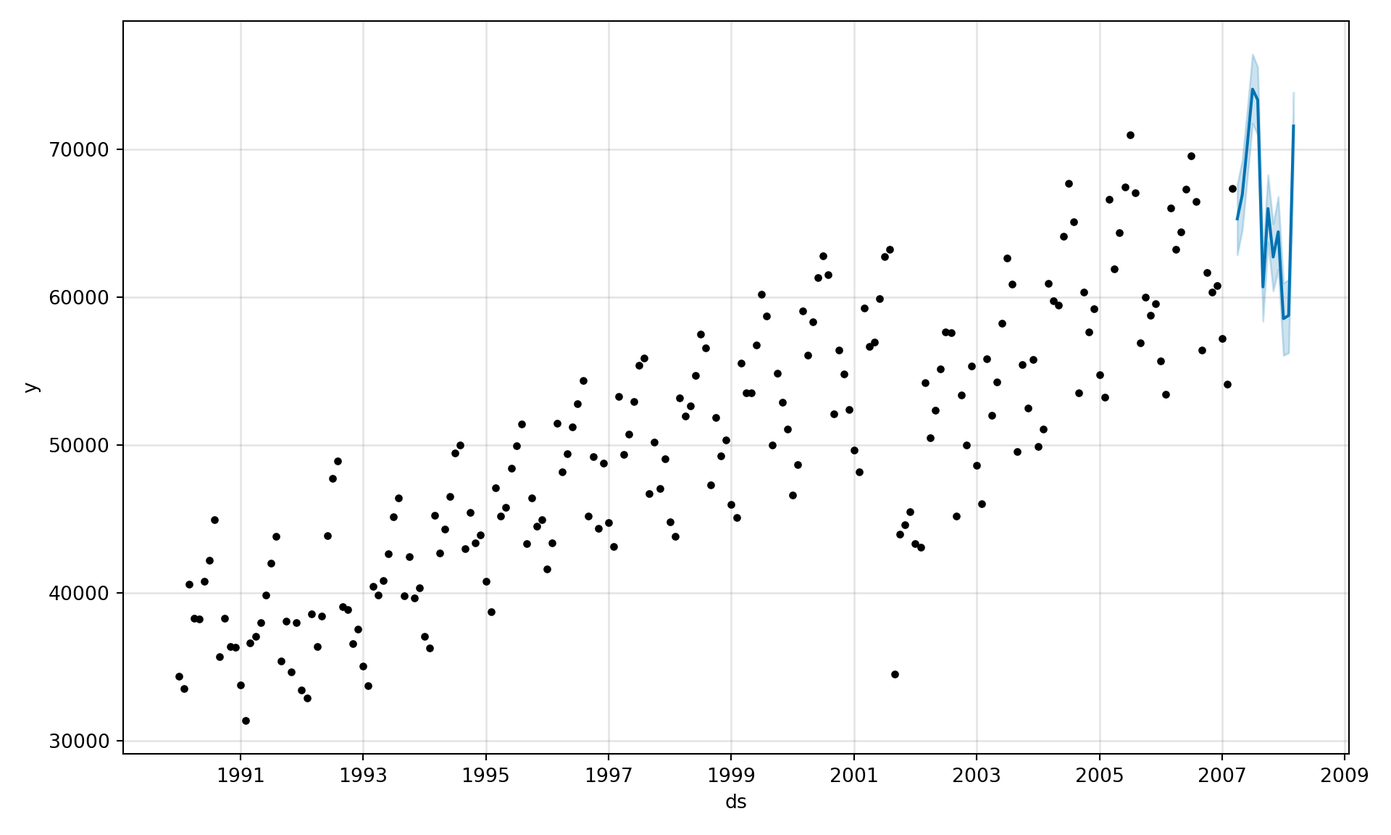
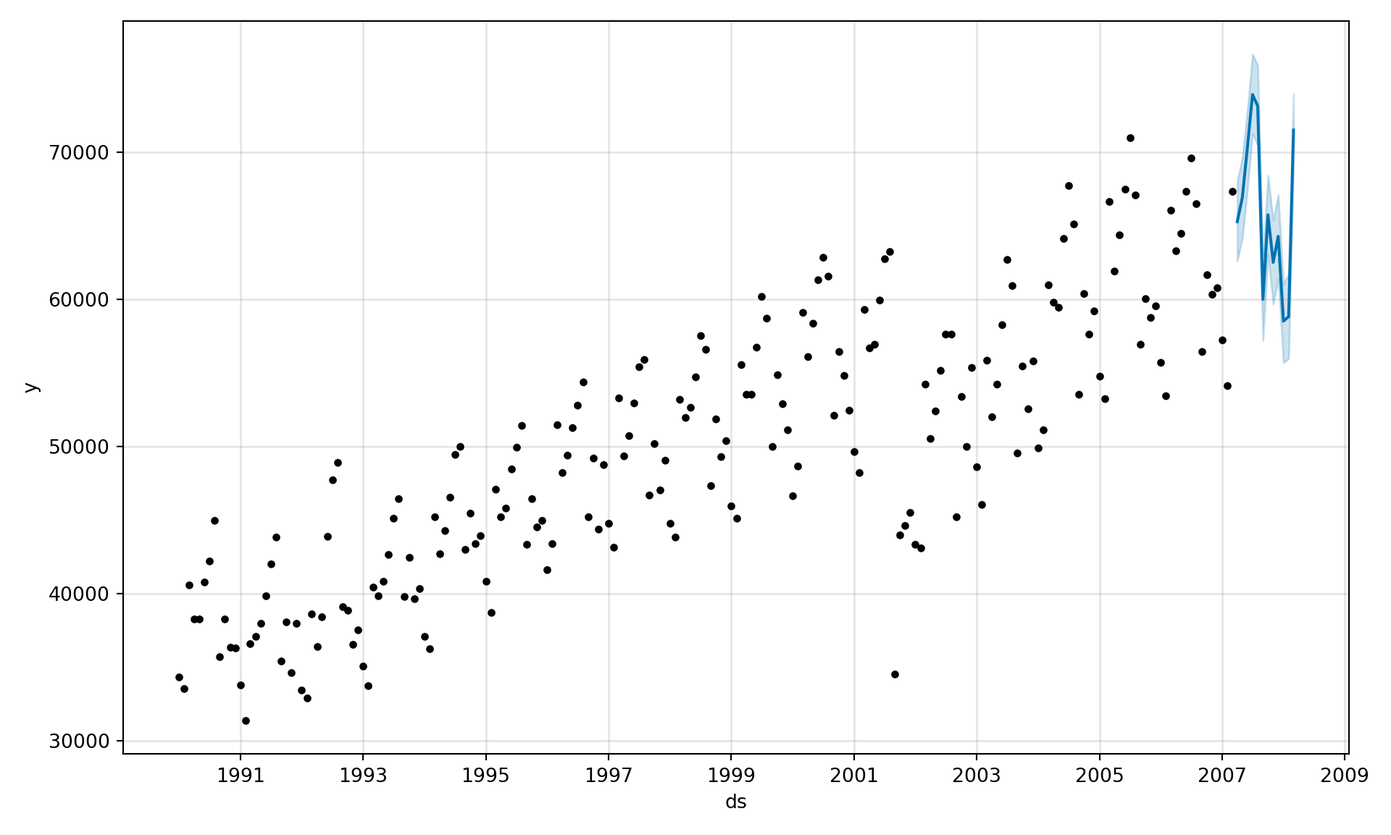
Updated prophet

diff --git a/docs/prophet.html b/docs/prophet.html
@@ -345,99 +345,81 @@ X_W = \cos(\frac{2\pi t}{7}) + \sin(2 \times \frac{2\pi t}{7}) + \cos(3 \times \
 <pre><code>## # A tibble: 1 × 10
 ##   .model                .type     ME  RMSE   MAE   MPE  MAPE  MASE RMSSE    ACF1
 ##   &lt;chr&gt;                 &lt;chr&gt;  &lt;dbl&gt; &lt;dbl&gt; &lt;dbl&gt; &lt;dbl&gt; &lt;dbl&gt; &lt;dbl&gt; &lt;dbl&gt;   &lt;dbl&gt;
-## 1 &quot;prophet(Passengers … Test  -1160. 1598. 1229. -1.79  1.90   NaN   NaN -0.0561</code></pre>
+## 1 &quot;prophet(Passengers … Test  -1159. 1608. 1235. -1.79  1.91   NaN   NaN -0.0583</code></pre>
 <p>It appears as if the Prophet model was not as accurate as some of the other approaches that we have used to model our data. The possible reasoning for this is discussed in the forecasting section below.</p>
 </div>
 <div id="python-7" class="section level3 hasAnchor" number="7.1.2">
 <h3><span class="header-section-number">7.1.2</span> Python<a href="prophet.html#python-7" class="anchor-section" aria-label="Anchor link to header"></a></h3>
 <p>Although the Prophet model is in another package in Python (the prophet package), the data structure in the StatsForecast package that we have used so far is the exact same. This makes the implementation of the Prophet algorithm in Python much easier. For our dataset we have a point intervention at September, 2001. We can easily create a binary variable that takes a value of 1 during that month and 0 otherwise. By using the merge function on our training dataset we can add this new variable to our training data.</p>
 <p>First, we need the Prophet function from the prophet package. Then all we need to do it define the structure of the model that we want. By default, the Prophet function will include a linear growth term for us. The seasonality_mode = “multiplicative” option adds a multiplicative seasonal effect for our Fourier variables. We choose multiplicative based on the other seasonal models we have built being this structure. Of course, you can always try both additive and multiplicative to see which works better. Too add in our Sep11 variable we use the add_regressor function to our model. Lastly, we use the .fit function with our training dataset to build the model.</p>
-<div class="sourceCode" id="cb12"><pre class="sourceCode python"><code class="sourceCode python"><span id="cb12-1"><a href="prophet.html#cb12-1" tabindex="-1"></a>Sep11 <span class="op">=</span> np.full(shape <span class="op">=</span> <span class="dv">207</span>, fill_value <span class="op">=</span> <span class="dv">0</span>)</span>
+<div class="sourceCode" id="cb12"><pre class="sourceCode python"><code class="sourceCode python"><span id="cb12-1"><a href="prophet.html#cb12-1" tabindex="-1"></a><span class="im">from</span> prophet <span class="im">import</span> Prophet</span>
 <span id="cb12-2"><a href="prophet.html#cb12-2" tabindex="-1"></a></span>
-<span id="cb12-3"><a href="prophet.html#cb12-3" tabindex="-1"></a>d_X <span class="op">=</span> {<span class="st">&#39;unique_id&#39;</span>: <span class="dv">1</span>, <span class="st">&#39;ds&#39;</span>: train.index, <span class="st">&#39;Sep11&#39;</span>: Sep11}</span>
-<span id="cb12-4"><a href="prophet.html#cb12-4" tabindex="-1"></a>X_sf <span class="op">=</span> pd.DataFrame(data <span class="op">=</span> d_X)</span>
-<span id="cb12-5"><a href="prophet.html#cb12-5" tabindex="-1"></a></span>
-<span id="cb12-6"><a href="prophet.html#cb12-6" tabindex="-1"></a>X_sf.loc[<span class="dv">140</span>, <span class="st">&#39;Sep11&#39;</span>] <span class="op">=</span> <span class="dv">1</span></span>
-<span id="cb12-7"><a href="prophet.html#cb12-7" tabindex="-1"></a></span>
-<span id="cb12-8"><a href="prophet.html#cb12-8" tabindex="-1"></a>train_sf_X <span class="op">=</span> train_sf.merge(X_sf, how <span class="op">=</span> <span class="st">&#39;left&#39;</span>, on <span class="op">=</span> [<span class="st">&#39;unique_id&#39;</span>, <span class="st">&#39;ds&#39;</span>]) </span>
-<span id="cb12-9"><a href="prophet.html#cb12-9" tabindex="-1"></a></span>
-<span id="cb12-10"><a href="prophet.html#cb12-10" tabindex="-1"></a><span class="im">from</span> prophet <span class="im">import</span> Prophet</span>
-<span id="cb12-11"><a href="prophet.html#cb12-11" tabindex="-1"></a></span>
-<span id="cb12-12"><a href="prophet.html#cb12-12" tabindex="-1"></a>m <span class="op">=</span> Prophet(seasonality_mode<span class="op">=</span><span class="st">&#39;multiplicative&#39;</span>)</span>
-<span id="cb12-13"><a href="prophet.html#cb12-13" tabindex="-1"></a>m.add_regressor(<span class="st">&#39;Sep11&#39;</span>)</span></code></pre></div>
-<pre><code>## &lt;prophet.forecaster.Prophet object at 0x00000285FE8FAA50&gt;</code></pre>
-<div class="sourceCode" id="cb14"><pre class="sourceCode python"><code class="sourceCode python"><span id="cb14-1"><a href="prophet.html#cb14-1" tabindex="-1"></a>m.fit(train_sf_X)</span></code></pre></div>
-<pre><code>## &lt;prophet.forecaster.Prophet object at 0x00000285FE8FAA50&gt;</code></pre>
+<span id="cb12-3"><a href="prophet.html#cb12-3" tabindex="-1"></a>m <span class="op">=</span> Prophet(seasonality_mode<span class="op">=</span><span class="st">&#39;multiplicative&#39;</span>)</span>
+<span id="cb12-4"><a href="prophet.html#cb12-4" tabindex="-1"></a>m.fit(train_sf)</span></code></pre></div>
+<pre><code>## &lt;prophet.forecaster.Prophet object at 0x000002439454F050&gt;</code></pre>
 <p>Let’s also evaluate the residuals from this model using the acorr_ljungbox from the statsmodels package on the residuals from our model to test for white noise. First we need to calculate the residuals. To do this we need the predict function on our model to give us the predicted values of our training data. From there we calculate the residuals by taking these predicted values and subtracting them from the true values of our target variable y.</p>
-<div class="sourceCode" id="cb16"><pre class="sourceCode python"><code class="sourceCode python"><span id="cb16-1"><a href="prophet.html#cb16-1" tabindex="-1"></a>fitted <span class="op">=</span> m.predict()</span>
-<span id="cb16-2"><a href="prophet.html#cb16-2" tabindex="-1"></a>train_sf_X <span class="op">=</span> train_sf_X.merge(fitted, on <span class="op">=</span> <span class="st">&#39;ds&#39;</span>)</span>
-<span id="cb16-3"><a href="prophet.html#cb16-3" tabindex="-1"></a>residuals <span class="op">=</span> train_sf_X[<span class="st">&#39;y&#39;</span>] <span class="op">-</span> train_sf_X[<span class="st">&#39;yhat&#39;</span>]</span>
-<span id="cb16-4"><a href="prophet.html#cb16-4" tabindex="-1"></a></span>
-<span id="cb16-5"><a href="prophet.html#cb16-5" tabindex="-1"></a>sm.stats.acorr_ljungbox(residuals, lags <span class="op">=</span> [<span class="dv">12</span>], model_df <span class="op">=</span> <span class="dv">5</span>)</span></code></pre></div>
+<div class="sourceCode" id="cb14"><pre class="sourceCode python"><code class="sourceCode python"><span id="cb14-1"><a href="prophet.html#cb14-1" tabindex="-1"></a>fitted <span class="op">=</span> m.predict()</span>
+<span id="cb14-2"><a href="prophet.html#cb14-2" tabindex="-1"></a>train_sf <span class="op">=</span> train_sf.merge(fitted, on <span class="op">=</span> <span class="st">&#39;ds&#39;</span>)</span>
+<span id="cb14-3"><a href="prophet.html#cb14-3" tabindex="-1"></a>residuals <span class="op">=</span> train_sf[<span class="st">&#39;y&#39;</span>] <span class="op">-</span> train_sf[<span class="st">&#39;yhat&#39;</span>]</span>
+<span id="cb14-4"><a href="prophet.html#cb14-4" tabindex="-1"></a></span>
+<span id="cb14-5"><a href="prophet.html#cb14-5" tabindex="-1"></a>sm.stats.acorr_ljungbox(residuals, lags <span class="op">=</span> [<span class="dv">12</span>], model_df <span class="op">=</span> <span class="dv">5</span>)</span></code></pre></div>
 <pre><code>##        lb_stat     lb_pvalue
-## 12  208.216878  2.083872e-41</code></pre>
+## 12  197.137224  4.634554e-39</code></pre>
 <p>Looks like our residuals still have some autocorrelation in them so further pattern exists. This isn’t surprising as the Prophet algorithm was never designed to be a statistical algorithm that removes all the autocorrelation from the data like an ARIMA model.</p>
 <p>To forecast these values going forward, we need future values of our predictor variable. For this dataset, we have our Sep11 variable that we forecast to have values of 0 for each of the 12 observations we are forecasting for airline passengers. To do this we create another variable (of the same name) that has future values. This new variable is then put into the test dataset which gets passed inside of the .predict function on our model that we built. The function is expecting a variable in the test dataset called Sep11 in it. From there we plot the forecast with the .plot function.</p>
-<div class="sourceCode" id="cb18"><pre class="sourceCode python"><code class="sourceCode python"><span id="cb18-1"><a href="prophet.html#cb18-1" tabindex="-1"></a>Sep11 <span class="op">=</span> np.full(shape <span class="op">=</span> <span class="dv">12</span>, fill_value <span class="op">=</span> <span class="dv">0</span>)</span>
-<span id="cb18-2"><a href="prophet.html#cb18-2" tabindex="-1"></a></span>
-<span id="cb18-3"><a href="prophet.html#cb18-3" tabindex="-1"></a>d_X <span class="op">=</span> {<span class="st">&#39;unique_id&#39;</span>: <span class="dv">1</span>, <span class="st">&#39;ds&#39;</span>: test.index, <span class="st">&#39;Sep11&#39;</span>: Sep11}</span>
-<span id="cb18-4"><a href="prophet.html#cb18-4" tabindex="-1"></a>X_sf <span class="op">=</span> pd.DataFrame(data <span class="op">=</span> d_X)</span>
-<span id="cb18-5"><a href="prophet.html#cb18-5" tabindex="-1"></a></span>
-<span id="cb18-6"><a href="prophet.html#cb18-6" tabindex="-1"></a>test_sf_X <span class="op">=</span> test_sf.merge(X_sf, how <span class="op">=</span> <span class="st">&#39;left&#39;</span>, on <span class="op">=</span> [<span class="st">&#39;unique_id&#39;</span>, <span class="st">&#39;ds&#39;</span>]) </span>
-<span id="cb18-7"><a href="prophet.html#cb18-7" tabindex="-1"></a></span>
-<span id="cb18-8"><a href="prophet.html#cb18-8" tabindex="-1"></a>fcst <span class="op">=</span> m.predict(test_sf_X)</span>
-<span id="cb18-9"><a href="prophet.html#cb18-9" tabindex="-1"></a>fig <span class="op">=</span> m.plot(fcst)</span>
-<span id="cb18-10"><a href="prophet.html#cb18-10" tabindex="-1"></a></span>
-<span id="cb18-11"><a href="prophet.html#cb18-11" tabindex="-1"></a>plt.show()<span class="op">;</span></span></code></pre></div>
+<div class="sourceCode" id="cb16"><pre class="sourceCode python"><code class="sourceCode python"><span id="cb16-1"><a href="prophet.html#cb16-1" tabindex="-1"></a>fcst <span class="op">=</span> m.predict(test_sf)</span>
+<span id="cb16-2"><a href="prophet.html#cb16-2" tabindex="-1"></a>fig <span class="op">=</span> m.plot(fcst)</span>
+<span id="cb16-3"><a href="prophet.html#cb16-3" tabindex="-1"></a></span>
+<span id="cb16-4"><a href="prophet.html#cb16-4" tabindex="-1"></a>plt.show()<span class="op">;</span></span></code></pre></div>
 <p><img src="bookdownproj_files/figure-html/unnamed-chunk-10-1.png" width="960" /></p>
 <p>We can use the forecasted values from the above code to evaluate these forecasts by comparing them to the test dataset.</p>
-<div class="sourceCode" id="cb19"><pre class="sourceCode python"><code class="sourceCode python"><span id="cb19-1"><a href="prophet.html#cb19-1" tabindex="-1"></a>fcst.index <span class="op">=</span> fcst[<span class="st">&#39;ds&#39;</span>]</span>
-<span id="cb19-2"><a href="prophet.html#cb19-2" tabindex="-1"></a></span>
-<span id="cb19-3"><a href="prophet.html#cb19-3" tabindex="-1"></a>error <span class="op">=</span> test[<span class="st">&#39;Passengers&#39;</span>] <span class="op">-</span> fcst[<span class="st">&#39;yhat&#39;</span>].tail(<span class="dv">12</span>)</span>
-<span id="cb19-4"><a href="prophet.html#cb19-4" tabindex="-1"></a>MAPE <span class="op">=</span> np.mean(<span class="bu">abs</span>(error)<span class="op">/</span>test[<span class="st">&#39;Passengers&#39;</span>])<span class="op">*</span><span class="dv">100</span></span>
-<span id="cb19-5"><a href="prophet.html#cb19-5" tabindex="-1"></a><span class="bu">print</span>(<span class="st">&quot;Prophet MAE =&quot;</span>, np.mean(<span class="bu">abs</span>(error)), <span class="st">&quot;</span><span class="ch">\n</span><span class="st">Prophet MAPE =&quot;</span>, MAPE)</span></code></pre></div>
-<pre><code>## Prophet MAE = 1507.1520395638254 
-## Prophet MAPE = 2.34739154766238</code></pre>
+<div class="sourceCode" id="cb17"><pre class="sourceCode python"><code class="sourceCode python"><span id="cb17-1"><a href="prophet.html#cb17-1" tabindex="-1"></a>fcst.index <span class="op">=</span> fcst[<span class="st">&#39;ds&#39;</span>]</span>
+<span id="cb17-2"><a href="prophet.html#cb17-2" tabindex="-1"></a></span>
+<span id="cb17-3"><a href="prophet.html#cb17-3" tabindex="-1"></a>error <span class="op">=</span> test[<span class="st">&#39;Passengers&#39;</span>] <span class="op">-</span> fcst[<span class="st">&#39;yhat&#39;</span>].tail(<span class="dv">12</span>)</span>
+<span id="cb17-4"><a href="prophet.html#cb17-4" tabindex="-1"></a>MAPE <span class="op">=</span> np.mean(<span class="bu">abs</span>(error)<span class="op">/</span>test[<span class="st">&#39;Passengers&#39;</span>])<span class="op">*</span><span class="dv">100</span></span>
+<span id="cb17-5"><a href="prophet.html#cb17-5" tabindex="-1"></a><span class="bu">print</span>(<span class="st">&quot;Prophet MAE =&quot;</span>, np.mean(<span class="bu">abs</span>(error)), <span class="st">&quot;</span><span class="ch">\n</span><span class="st">Prophet MAPE =&quot;</span>, MAPE)</span></code></pre></div>
+<pre><code>## Prophet MAE = 1332.0143682216083 
+## Prophet MAPE = 2.072441313401043</code></pre>
 <p>It appears as if the Prophet model was not as accurate as some of the other approaches that we have used to model our data. The possible reasoning for this is discussed in the forecasting section below.</p>
 </div>
 <div id="sas-7" class="section level3 hasAnchor" number="7.1.3">
 <h3><span class="header-section-number">7.1.3</span> SAS<a href="prophet.html#sas-7" class="anchor-section" aria-label="Anchor link to header"></a></h3>
 <p>At the time of creating this website, SAS did not have any way of directly implementing the Prophet algorithm in any of the procedures. However, since the Prophet algorithm is just a combination of a series of known variables, we can create those ourselves. For our dataset we have a point intervention at September, 2001. We can easily create a binary variable that takes a value of 1 during that month and 0 otherwise. We will also need a trend variable for the growth component. The time_trend variable will be our trend which we create with the +1 functionality of SAS to get a variable going 1, 2, 3, ., t. We also need to create a dataset that blanks out all the values of the Passenger variable past in our test window. SAS needs a dataset with the training data as well as future values of the predictor variables to forecast with a regression-based approach. Lastly, we need to use the trend variable to create our Fourier variables as defined above.</p>
-<div class="sourceCode" id="cb21"><pre class="sourceCode r"><code class="sourceCode r"><span id="cb21-1"><a href="prophet.html#cb21-1" tabindex="-1"></a>data usair_pred;</span>
-<span id="cb21-2"><a href="prophet.html#cb21-2" tabindex="-1"></a>    set usair;</span>
-<span id="cb21-3"><a href="prophet.html#cb21-3" tabindex="-1"></a>    Sep11 <span class="ot">=</span> <span class="dv">0</span>;</span>
-<span id="cb21-4"><a href="prophet.html#cb21-4" tabindex="-1"></a>    <span class="cf">if</span> date <span class="ot">=</span> <span class="st">&#39;1sep2001&#39;</span>d then Sep11 <span class="ot">=</span> <span class="dv">1</span>;</span>
-<span id="cb21-5"><a href="prophet.html#cb21-5" tabindex="-1"></a>    <span class="cf">if</span> date <span class="sc">&gt;</span> <span class="st">&#39;1mar2007&#39;</span>d then Passengers <span class="ot">=</span> .;</span>
-<span id="cb21-6"><a href="prophet.html#cb21-6" tabindex="-1"></a>    time_trend <span class="sc">+</span> <span class="dv">1</span>;</span>
-<span id="cb21-7"><a href="prophet.html#cb21-7" tabindex="-1"></a>run;</span>
-<span id="cb21-8"><a href="prophet.html#cb21-8" tabindex="-1"></a></span>
-<span id="cb21-9"><a href="prophet.html#cb21-9" tabindex="-1"></a>data usair_pred;</span>
-<span id="cb21-10"><a href="prophet.html#cb21-10" tabindex="-1"></a>    set usair_pred;</span>
-<span id="cb21-11"><a href="prophet.html#cb21-11" tabindex="-1"></a>    f1 <span class="ot">=</span> <span class="fu">sin</span>(<span class="dv">2</span><span class="sc">*</span><span class="fu">constant</span>(<span class="st">&quot;pi&quot;</span>)<span class="sc">*</span>time_trend<span class="sc">/</span><span class="dv">12</span>);</span>
-<span id="cb21-12"><a href="prophet.html#cb21-12" tabindex="-1"></a>    f2 <span class="ot">=</span> <span class="fu">cos</span>(<span class="dv">2</span><span class="sc">*</span><span class="fu">constant</span>(<span class="st">&quot;pi&quot;</span>)<span class="sc">*</span>time_trend<span class="sc">/</span><span class="dv">12</span>);</span>
-<span id="cb21-13"><a href="prophet.html#cb21-13" tabindex="-1"></a>    f3 <span class="ot">=</span> <span class="fu">sin</span>(<span class="dv">2</span><span class="sc">*</span><span class="dv">2</span><span class="sc">*</span><span class="fu">constant</span>(<span class="st">&quot;pi&quot;</span>)<span class="sc">*</span>time_trend<span class="sc">/</span><span class="dv">12</span>);</span>
-<span id="cb21-14"><a href="prophet.html#cb21-14" tabindex="-1"></a>    f4 <span class="ot">=</span> <span class="fu">cos</span>(<span class="dv">2</span><span class="sc">*</span><span class="dv">2</span><span class="sc">*</span><span class="fu">constant</span>(<span class="st">&quot;pi&quot;</span>)<span class="sc">*</span>time_trend<span class="sc">/</span><span class="dv">12</span>);</span>
-<span id="cb21-15"><a href="prophet.html#cb21-15" tabindex="-1"></a>    f5 <span class="ot">=</span> <span class="fu">sin</span>(<span class="dv">3</span><span class="sc">*</span><span class="dv">2</span><span class="sc">*</span><span class="fu">constant</span>(<span class="st">&quot;pi&quot;</span>)<span class="sc">*</span>time_trend<span class="sc">/</span><span class="dv">12</span>);</span>
-<span id="cb21-16"><a href="prophet.html#cb21-16" tabindex="-1"></a>    f6 <span class="ot">=</span> <span class="fu">cos</span>(<span class="dv">3</span><span class="sc">*</span><span class="dv">2</span><span class="sc">*</span><span class="fu">constant</span>(<span class="st">&quot;pi&quot;</span>)<span class="sc">*</span>time_trend<span class="sc">/</span><span class="dv">12</span>);</span>
-<span id="cb21-17"><a href="prophet.html#cb21-17" tabindex="-1"></a>    f7 <span class="ot">=</span> <span class="fu">sin</span>(<span class="dv">4</span><span class="sc">*</span><span class="dv">2</span><span class="sc">*</span><span class="fu">constant</span>(<span class="st">&quot;pi&quot;</span>)<span class="sc">*</span>time_trend<span class="sc">/</span><span class="dv">12</span>);</span>
-<span id="cb21-18"><a href="prophet.html#cb21-18" tabindex="-1"></a>    f8 <span class="ot">=</span> <span class="fu">cos</span>(<span class="dv">4</span><span class="sc">*</span><span class="dv">2</span><span class="sc">*</span><span class="fu">constant</span>(<span class="st">&quot;pi&quot;</span>)<span class="sc">*</span>time_trend<span class="sc">/</span><span class="dv">12</span>);</span>
-<span id="cb21-19"><a href="prophet.html#cb21-19" tabindex="-1"></a>    f9 <span class="ot">=</span> <span class="fu">sin</span>(<span class="dv">5</span><span class="sc">*</span><span class="dv">2</span><span class="sc">*</span><span class="fu">constant</span>(<span class="st">&quot;pi&quot;</span>)<span class="sc">*</span>time_trend<span class="sc">/</span><span class="dv">12</span>);</span>
-<span id="cb21-20"><a href="prophet.html#cb21-20" tabindex="-1"></a>    f10 <span class="ot">=</span> <span class="fu">cos</span>(<span class="dv">5</span><span class="sc">*</span><span class="dv">2</span><span class="sc">*</span><span class="fu">constant</span>(<span class="st">&quot;pi&quot;</span>)<span class="sc">*</span>time_trend<span class="sc">/</span><span class="dv">12</span>);</span>
-<span id="cb21-21"><a href="prophet.html#cb21-21" tabindex="-1"></a>    f11 <span class="ot">=</span> <span class="fu">sin</span>(<span class="dv">6</span><span class="sc">*</span><span class="dv">2</span><span class="sc">*</span><span class="fu">constant</span>(<span class="st">&quot;pi&quot;</span>)<span class="sc">*</span>time_trend<span class="sc">/</span><span class="dv">12</span>);</span>
-<span id="cb21-22"><a href="prophet.html#cb21-22" tabindex="-1"></a>    f12 <span class="ot">=</span> <span class="fu">cos</span>(<span class="dv">6</span><span class="sc">*</span><span class="dv">2</span><span class="sc">*</span><span class="fu">constant</span>(<span class="st">&quot;pi&quot;</span>)<span class="sc">*</span>time_trend<span class="sc">/</span><span class="dv">12</span>);</span>
-<span id="cb21-23"><a href="prophet.html#cb21-23" tabindex="-1"></a>run;</span></code></pre></div>
+<div class="sourceCode" id="cb19"><pre class="sourceCode r"><code class="sourceCode r"><span id="cb19-1"><a href="prophet.html#cb19-1" tabindex="-1"></a>data usair_pred;</span>
+<span id="cb19-2"><a href="prophet.html#cb19-2" tabindex="-1"></a>    set usair;</span>
+<span id="cb19-3"><a href="prophet.html#cb19-3" tabindex="-1"></a>    Sep11 <span class="ot">=</span> <span class="dv">0</span>;</span>
+<span id="cb19-4"><a href="prophet.html#cb19-4" tabindex="-1"></a>    <span class="cf">if</span> date <span class="ot">=</span> <span class="st">&#39;1sep2001&#39;</span>d then Sep11 <span class="ot">=</span> <span class="dv">1</span>;</span>
+<span id="cb19-5"><a href="prophet.html#cb19-5" tabindex="-1"></a>    <span class="cf">if</span> date <span class="sc">&gt;</span> <span class="st">&#39;1mar2007&#39;</span>d then Passengers <span class="ot">=</span> .;</span>
+<span id="cb19-6"><a href="prophet.html#cb19-6" tabindex="-1"></a>    time_trend <span class="sc">+</span> <span class="dv">1</span>;</span>
+<span id="cb19-7"><a href="prophet.html#cb19-7" tabindex="-1"></a>run;</span>
+<span id="cb19-8"><a href="prophet.html#cb19-8" tabindex="-1"></a></span>
+<span id="cb19-9"><a href="prophet.html#cb19-9" tabindex="-1"></a>data usair_pred;</span>
+<span id="cb19-10"><a href="prophet.html#cb19-10" tabindex="-1"></a>    set usair_pred;</span>
+<span id="cb19-11"><a href="prophet.html#cb19-11" tabindex="-1"></a>    f1 <span class="ot">=</span> <span class="fu">sin</span>(<span class="dv">2</span><span class="sc">*</span><span class="fu">constant</span>(<span class="st">&quot;pi&quot;</span>)<span class="sc">*</span>time_trend<span class="sc">/</span><span class="dv">12</span>);</span>
+<span id="cb19-12"><a href="prophet.html#cb19-12" tabindex="-1"></a>    f2 <span class="ot">=</span> <span class="fu">cos</span>(<span class="dv">2</span><span class="sc">*</span><span class="fu">constant</span>(<span class="st">&quot;pi&quot;</span>)<span class="sc">*</span>time_trend<span class="sc">/</span><span class="dv">12</span>);</span>
+<span id="cb19-13"><a href="prophet.html#cb19-13" tabindex="-1"></a>    f3 <span class="ot">=</span> <span class="fu">sin</span>(<span class="dv">2</span><span class="sc">*</span><span class="dv">2</span><span class="sc">*</span><span class="fu">constant</span>(<span class="st">&quot;pi&quot;</span>)<span class="sc">*</span>time_trend<span class="sc">/</span><span class="dv">12</span>);</span>
+<span id="cb19-14"><a href="prophet.html#cb19-14" tabindex="-1"></a>    f4 <span class="ot">=</span> <span class="fu">cos</span>(<span class="dv">2</span><span class="sc">*</span><span class="dv">2</span><span class="sc">*</span><span class="fu">constant</span>(<span class="st">&quot;pi&quot;</span>)<span class="sc">*</span>time_trend<span class="sc">/</span><span class="dv">12</span>);</span>
+<span id="cb19-15"><a href="prophet.html#cb19-15" tabindex="-1"></a>    f5 <span class="ot">=</span> <span class="fu">sin</span>(<span class="dv">3</span><span class="sc">*</span><span class="dv">2</span><span class="sc">*</span><span class="fu">constant</span>(<span class="st">&quot;pi&quot;</span>)<span class="sc">*</span>time_trend<span class="sc">/</span><span class="dv">12</span>);</span>
+<span id="cb19-16"><a href="prophet.html#cb19-16" tabindex="-1"></a>    f6 <span class="ot">=</span> <span class="fu">cos</span>(<span class="dv">3</span><span class="sc">*</span><span class="dv">2</span><span class="sc">*</span><span class="fu">constant</span>(<span class="st">&quot;pi&quot;</span>)<span class="sc">*</span>time_trend<span class="sc">/</span><span class="dv">12</span>);</span>
+<span id="cb19-17"><a href="prophet.html#cb19-17" tabindex="-1"></a>    f7 <span class="ot">=</span> <span class="fu">sin</span>(<span class="dv">4</span><span class="sc">*</span><span class="dv">2</span><span class="sc">*</span><span class="fu">constant</span>(<span class="st">&quot;pi&quot;</span>)<span class="sc">*</span>time_trend<span class="sc">/</span><span class="dv">12</span>);</span>
+<span id="cb19-18"><a href="prophet.html#cb19-18" tabindex="-1"></a>    f8 <span class="ot">=</span> <span class="fu">cos</span>(<span class="dv">4</span><span class="sc">*</span><span class="dv">2</span><span class="sc">*</span><span class="fu">constant</span>(<span class="st">&quot;pi&quot;</span>)<span class="sc">*</span>time_trend<span class="sc">/</span><span class="dv">12</span>);</span>
+<span id="cb19-19"><a href="prophet.html#cb19-19" tabindex="-1"></a>    f9 <span class="ot">=</span> <span class="fu">sin</span>(<span class="dv">5</span><span class="sc">*</span><span class="dv">2</span><span class="sc">*</span><span class="fu">constant</span>(<span class="st">&quot;pi&quot;</span>)<span class="sc">*</span>time_trend<span class="sc">/</span><span class="dv">12</span>);</span>
+<span id="cb19-20"><a href="prophet.html#cb19-20" tabindex="-1"></a>    f10 <span class="ot">=</span> <span class="fu">cos</span>(<span class="dv">5</span><span class="sc">*</span><span class="dv">2</span><span class="sc">*</span><span class="fu">constant</span>(<span class="st">&quot;pi&quot;</span>)<span class="sc">*</span>time_trend<span class="sc">/</span><span class="dv">12</span>);</span>
+<span id="cb19-21"><a href="prophet.html#cb19-21" tabindex="-1"></a>    f11 <span class="ot">=</span> <span class="fu">sin</span>(<span class="dv">6</span><span class="sc">*</span><span class="dv">2</span><span class="sc">*</span><span class="fu">constant</span>(<span class="st">&quot;pi&quot;</span>)<span class="sc">*</span>time_trend<span class="sc">/</span><span class="dv">12</span>);</span>
+<span id="cb19-22"><a href="prophet.html#cb19-22" tabindex="-1"></a>    f12 <span class="ot">=</span> <span class="fu">cos</span>(<span class="dv">6</span><span class="sc">*</span><span class="dv">2</span><span class="sc">*</span><span class="fu">constant</span>(<span class="st">&quot;pi&quot;</span>)<span class="sc">*</span>time_trend<span class="sc">/</span><span class="dv">12</span>);</span>
+<span id="cb19-23"><a href="prophet.html#cb19-23" tabindex="-1"></a>run;</span></code></pre></div>
 <p>Now that the data has the needed variables we can build our model. The only complication comes from the piecewise linear regression part of the Prophet algorithm. For that we can use PROC GLIMMIX. The EFFECT statement allows us to create a piecewise variable using the spline function on the time_trend variable. The degree = 1 option makes the piecewise function linear and knotmethod = option allows us to specify a list of values where we want knots to occur. The list must also include the first and last points of the variable. From there we can use the MODEL statement to define our models using our newly created growth variable, our Sep11 variable, and the Fourier variables f1 through f11. Lastly, we put the solution option in the MODEL statement to get the procedure to estimate the coefficients. The OUTPUT statement allows us to save the predictions (predicted =) as a variable in a dataset (out =).</p>
 <p>We can plot the predicted values from this model with PROC SGPLOT.</p>
-<div class="sourceCode" id="cb22"><pre class="sourceCode r"><code class="sourceCode r"><span id="cb22-1"><a href="prophet.html#cb22-1" tabindex="-1"></a>proc glimmix data <span class="ot">=</span> usair_pred;</span>
-<span id="cb22-2"><a href="prophet.html#cb22-2" tabindex="-1"></a>   effect growth <span class="ot">=</span> <span class="fu">spline</span>(time_trend <span class="sc">/</span> <span class="at">degree =</span> <span class="dv">1</span> <span class="at">knotmethod =</span> <span class="fu">list</span>(<span class="dv">1</span> <span class="dv">30</span> <span class="dv">120</span> <span class="dv">141</span> <span class="dv">145</span> <span class="dv">156</span> <span class="dv">219</span>));</span>
-<span id="cb22-3"><a href="prophet.html#cb22-3" tabindex="-1"></a>   model Passengers <span class="ot">=</span> growth Sep11 f1<span class="sc">-</span>f11 <span class="sc">/</span> solution;  </span>
-<span id="cb22-4"><a href="prophet.html#cb22-4" tabindex="-1"></a>   output out <span class="ot">=</span> Proph_f predicted <span class="ot">=</span> Pred;</span>
-<span id="cb22-5"><a href="prophet.html#cb22-5" tabindex="-1"></a>quit;</span>
-<span id="cb22-6"><a href="prophet.html#cb22-6" tabindex="-1"></a></span>
-<span id="cb22-7"><a href="prophet.html#cb22-7" tabindex="-1"></a>proc sgplot data <span class="ot">=</span> Proph_f;</span>
-<span id="cb22-8"><a href="prophet.html#cb22-8" tabindex="-1"></a>    series x <span class="ot">=</span> date y <span class="ot">=</span> Passengers;</span>
-<span id="cb22-9"><a href="prophet.html#cb22-9" tabindex="-1"></a>    series x <span class="ot">=</span> date y <span class="ot">=</span> Pred <span class="sc">/</span> lineattrs<span class="ot">=</span>(<span class="at">color=</span>red <span class="at">pattern=</span>dash <span class="at">thickness=</span><span class="dv">1</span>);</span>
-<span id="cb22-10"><a href="prophet.html#cb22-10" tabindex="-1"></a>run;</span></code></pre></div>
+<div class="sourceCode" id="cb20"><pre class="sourceCode r"><code class="sourceCode r"><span id="cb20-1"><a href="prophet.html#cb20-1" tabindex="-1"></a>proc glimmix data <span class="ot">=</span> usair_pred;</span>
+<span id="cb20-2"><a href="prophet.html#cb20-2" tabindex="-1"></a>   effect growth <span class="ot">=</span> <span class="fu">spline</span>(time_trend <span class="sc">/</span> <span class="at">degree =</span> <span class="dv">1</span> <span class="at">knotmethod =</span> <span class="fu">list</span>(<span class="dv">1</span> <span class="dv">30</span> <span class="dv">120</span> <span class="dv">141</span> <span class="dv">145</span> <span class="dv">156</span> <span class="dv">219</span>));</span>
+<span id="cb20-3"><a href="prophet.html#cb20-3" tabindex="-1"></a>   model Passengers <span class="ot">=</span> growth Sep11 f1<span class="sc">-</span>f11 <span class="sc">/</span> solution;  </span>
+<span id="cb20-4"><a href="prophet.html#cb20-4" tabindex="-1"></a>   output out <span class="ot">=</span> Proph_f predicted <span class="ot">=</span> Pred;</span>
+<span id="cb20-5"><a href="prophet.html#cb20-5" tabindex="-1"></a>quit;</span>
+<span id="cb20-6"><a href="prophet.html#cb20-6" tabindex="-1"></a></span>
+<span id="cb20-7"><a href="prophet.html#cb20-7" tabindex="-1"></a>proc sgplot data <span class="ot">=</span> Proph_f;</span>
+<span id="cb20-8"><a href="prophet.html#cb20-8" tabindex="-1"></a>    series x <span class="ot">=</span> date y <span class="ot">=</span> Passengers;</span>
+<span id="cb20-9"><a href="prophet.html#cb20-9" tabindex="-1"></a>    series x <span class="ot">=</span> date y <span class="ot">=</span> Pred <span class="sc">/</span> lineattrs<span class="ot">=</span>(<span class="at">color=</span>red <span class="at">pattern=</span>dash <span class="at">thickness=</span><span class="dv">1</span>);</span>
+<span id="cb20-10"><a href="prophet.html#cb20-10" tabindex="-1"></a>run;</span></code></pre></div>
 <div class="float">
 <img src="11_a_SAS.png" alt="SASOutput" />
 <div class="figcaption">SASOutput</div>
@@ -447,26 +429,26 @@ X_W = \cos(\frac{2\pi t}{7}) + \sin(2 \times \frac{2\pi t}{7}) + \cos(3 \times \
 <div class="figcaption">SASOutput</div>
 </div>
 <p>We need to isolate just the forecasted observations from the output above. For that we use the DATA STEP to just look at the predicted values from the two previous models beyond the March, 2007 training observations with the WHERE statement. Next, we use the MERGE statement in another DATA STEP to merge the original test dataset with the predicted values from the above model. Lastly, we calculate the absolute error and absolute percentage error for each observation with our last DATA STEP. To get the average of these calculations, we throw our test dataset into the PROC MEANS procedure where we specify these variables with the VAR statement.</p>
-<div class="sourceCode" id="cb23"><pre class="sourceCode r"><code class="sourceCode r"><span id="cb23-1"><a href="prophet.html#cb23-1" tabindex="-1"></a>data Proph_f;</span>
-<span id="cb23-2"><a href="prophet.html#cb23-2" tabindex="-1"></a>    set Proph_f;</span>
-<span id="cb23-3"><a href="prophet.html#cb23-3" tabindex="-1"></a>    where date <span class="sc">&gt;</span> <span class="st">&#39;1mar2007&#39;</span>d;</span>
-<span id="cb23-4"><a href="prophet.html#cb23-4" tabindex="-1"></a>    Predict_Proph <span class="ot">=</span> Pred;</span>
-<span id="cb23-5"><a href="prophet.html#cb23-5" tabindex="-1"></a>    keep Predict_Proph;</span>
-<span id="cb23-6"><a href="prophet.html#cb23-6" tabindex="-1"></a>run;</span>
-<span id="cb23-7"><a href="prophet.html#cb23-7" tabindex="-1"></a></span>
-<span id="cb23-8"><a href="prophet.html#cb23-8" tabindex="-1"></a>data test;</span>
-<span id="cb23-9"><a href="prophet.html#cb23-9" tabindex="-1"></a>    merge test Proph_f;</span>
-<span id="cb23-10"><a href="prophet.html#cb23-10" tabindex="-1"></a>run;</span>
-<span id="cb23-11"><a href="prophet.html#cb23-11" tabindex="-1"></a></span>
-<span id="cb23-12"><a href="prophet.html#cb23-12" tabindex="-1"></a>data test;</span>
-<span id="cb23-13"><a href="prophet.html#cb23-13" tabindex="-1"></a>    set test;</span>
-<span id="cb23-14"><a href="prophet.html#cb23-14" tabindex="-1"></a>    AE_Proph <span class="ot">=</span> <span class="fu">abs</span>(Passengers <span class="sc">-</span> Predict_Proph);</span>
-<span id="cb23-15"><a href="prophet.html#cb23-15" tabindex="-1"></a>    APE_Proph <span class="ot">=</span> <span class="fu">abs</span>(Passengers <span class="sc">-</span> Predict_Proph)<span class="sc">/</span>Passengers<span class="sc">*</span><span class="dv">100</span>;</span>
-<span id="cb23-16"><a href="prophet.html#cb23-16" tabindex="-1"></a>run;</span>
-<span id="cb23-17"><a href="prophet.html#cb23-17" tabindex="-1"></a></span>
-<span id="cb23-18"><a href="prophet.html#cb23-18" tabindex="-1"></a>proc means data <span class="ot">=</span> test;</span>
-<span id="cb23-19"><a href="prophet.html#cb23-19" tabindex="-1"></a>    var AE_Proph APE_Proph;</span>
-<span id="cb23-20"><a href="prophet.html#cb23-20" tabindex="-1"></a>run;</span></code></pre></div>
+<div class="sourceCode" id="cb21"><pre class="sourceCode r"><code class="sourceCode r"><span id="cb21-1"><a href="prophet.html#cb21-1" tabindex="-1"></a>data Proph_f;</span>
+<span id="cb21-2"><a href="prophet.html#cb21-2" tabindex="-1"></a>    set Proph_f;</span>
+<span id="cb21-3"><a href="prophet.html#cb21-3" tabindex="-1"></a>    where date <span class="sc">&gt;</span> <span class="st">&#39;1mar2007&#39;</span>d;</span>
+<span id="cb21-4"><a href="prophet.html#cb21-4" tabindex="-1"></a>    Predict_Proph <span class="ot">=</span> Pred;</span>
+<span id="cb21-5"><a href="prophet.html#cb21-5" tabindex="-1"></a>    keep Predict_Proph;</span>
+<span id="cb21-6"><a href="prophet.html#cb21-6" tabindex="-1"></a>run;</span>
+<span id="cb21-7"><a href="prophet.html#cb21-7" tabindex="-1"></a></span>
+<span id="cb21-8"><a href="prophet.html#cb21-8" tabindex="-1"></a>data test;</span>
+<span id="cb21-9"><a href="prophet.html#cb21-9" tabindex="-1"></a>    merge test Proph_f;</span>
+<span id="cb21-10"><a href="prophet.html#cb21-10" tabindex="-1"></a>run;</span>
+<span id="cb21-11"><a href="prophet.html#cb21-11" tabindex="-1"></a></span>
+<span id="cb21-12"><a href="prophet.html#cb21-12" tabindex="-1"></a>data test;</span>
+<span id="cb21-13"><a href="prophet.html#cb21-13" tabindex="-1"></a>    set test;</span>
+<span id="cb21-14"><a href="prophet.html#cb21-14" tabindex="-1"></a>    AE_Proph <span class="ot">=</span> <span class="fu">abs</span>(Passengers <span class="sc">-</span> Predict_Proph);</span>
+<span id="cb21-15"><a href="prophet.html#cb21-15" tabindex="-1"></a>    APE_Proph <span class="ot">=</span> <span class="fu">abs</span>(Passengers <span class="sc">-</span> Predict_Proph)<span class="sc">/</span>Passengers<span class="sc">*</span><span class="dv">100</span>;</span>
+<span id="cb21-16"><a href="prophet.html#cb21-16" tabindex="-1"></a>run;</span>
+<span id="cb21-17"><a href="prophet.html#cb21-17" tabindex="-1"></a></span>
+<span id="cb21-18"><a href="prophet.html#cb21-18" tabindex="-1"></a>proc means data <span class="ot">=</span> test;</span>
+<span id="cb21-19"><a href="prophet.html#cb21-19" tabindex="-1"></a>    var AE_Proph APE_Proph;</span>
+<span id="cb21-20"><a href="prophet.html#cb21-20" tabindex="-1"></a>run;</span></code></pre></div>
 <div class="float">
 <img src="11_c_SAS.png" alt="SASOutput" />
 <div class="figcaption">SASOutput</div>
